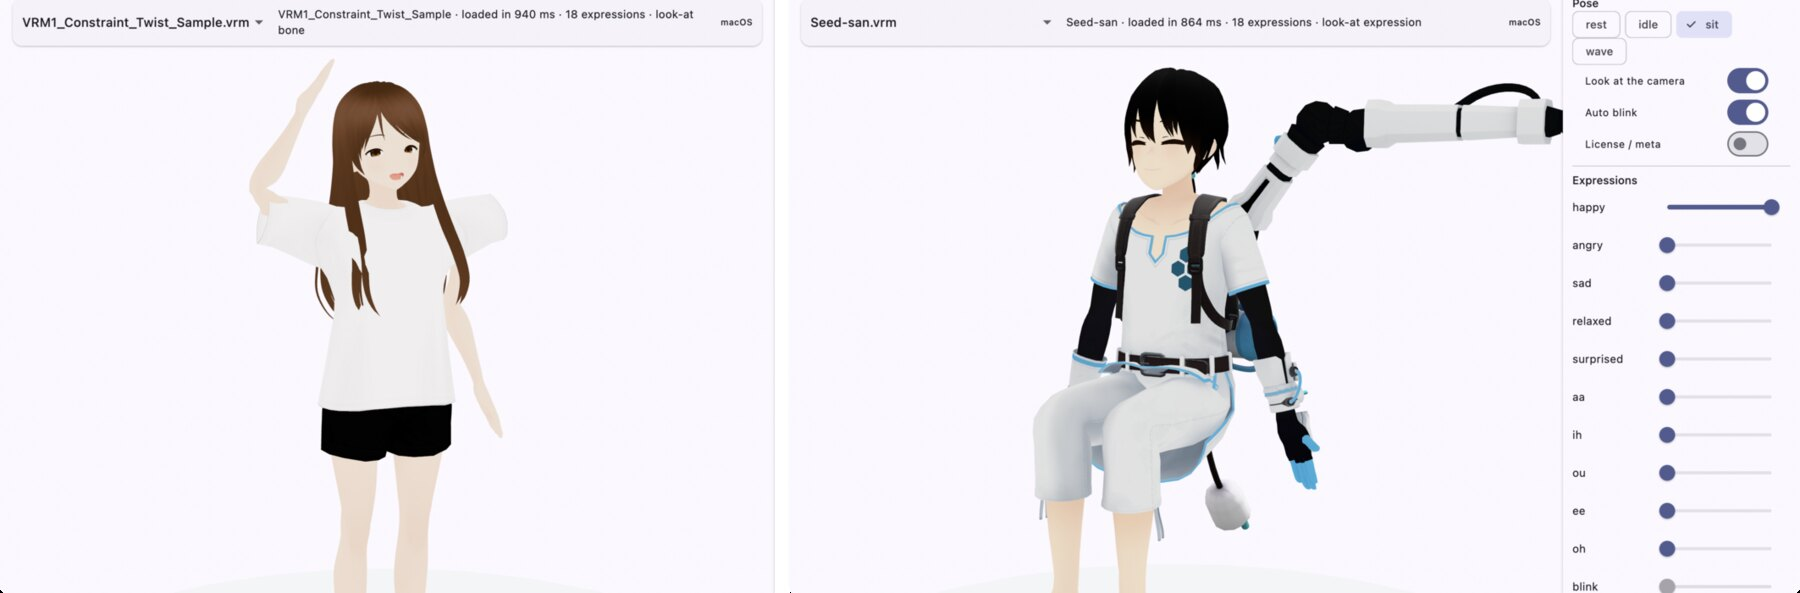
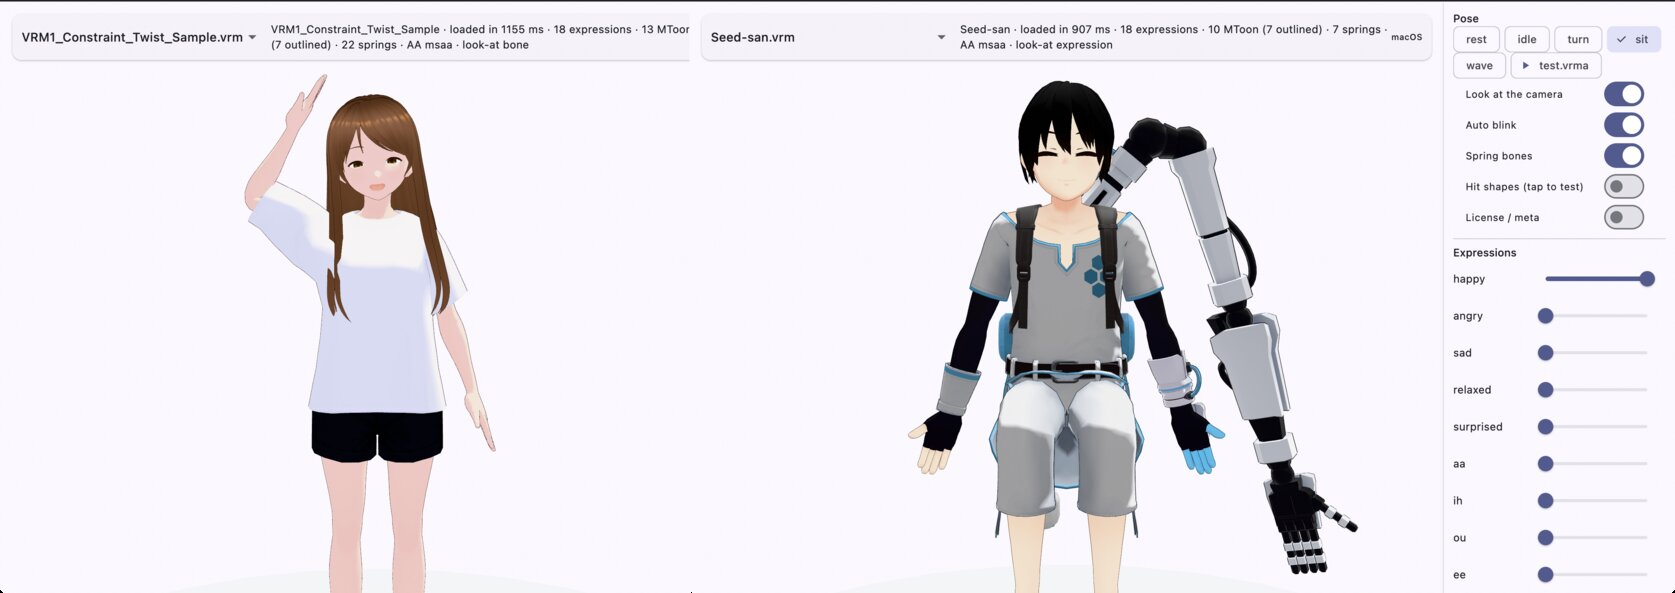
Retake the README hero with MToon, constraints, and spring bones; note how the head hit capsule is sized

diff --git a/AGENTS.md b/AGENTS.md
@@ -27,7 +27,8 @@
 - NodeConstraint は three-vrm と同じ式（roll・rotation はローカルの回転、aim は親の回転をモデル空間で）。source やその祖先を
   別の拘束が動かすなら、そちらを先に評価する。確認は `test/runtime/node_constraint_test.dart` と Twist サンプルの袖・短パン
 - 当たり判定は humanoid の骨に沿ったカプセル（`VrmHitShapes`）で行う。flutter_scene の `Scene.raycast` は skinned mesh を休止姿勢で
-  判定するので、アバターのメッシュには使わない。太さはモデルの hips の高さ（0.85 m を基準）で比例させる。確認は
+  判定するので、アバターのメッシュには使わない。太さはモデルの hips の高さ（0.85 m を基準）で比例させる。頭だけは頭の骨から
+  メッシュの上端まで（glTF の POSITION の min / max から。skinned mesh の `Geometry.localBounds` は空）で、頭の大きいモデルも覆う。確認は
   `test/runtime/hit_test_test.dart` と example の `HITS=true`（タップで部位が出る）
 - VRMA は読み込み時に仕様の「NormalizedLocalRotation」（P·local·W⁻¹）へ直す。これは `VrmHumanoidRig` の正規化した回転と同じ
   空間なので、プレイヤーは `setNormalizedRotation` に渡すだけ。四元数の積は自前の Hamilton 積で書く（vector_math の演算子に

diff --git a/README.md b/README.md
@@ -8,7 +8,7 @@
 VRM 1.0 avatars for Flutter, rendered by [flutter_scene](https://pub.dev/packages/flutter_scene)
 (Flutter GPU / Impeller, with a WebGL2 backend on the web).
 
-![Two VRM 1.0 sample avatars in the example app: one waving with an open mouth, one seated with a happy face](doc/images/hero.jpg)
+![Two VRM 1.0 sample avatars in the example app with MToon: one waving with an open mouth, one seated with a happy face](doc/images/hero.jpg)
 
 ## Summary
 
